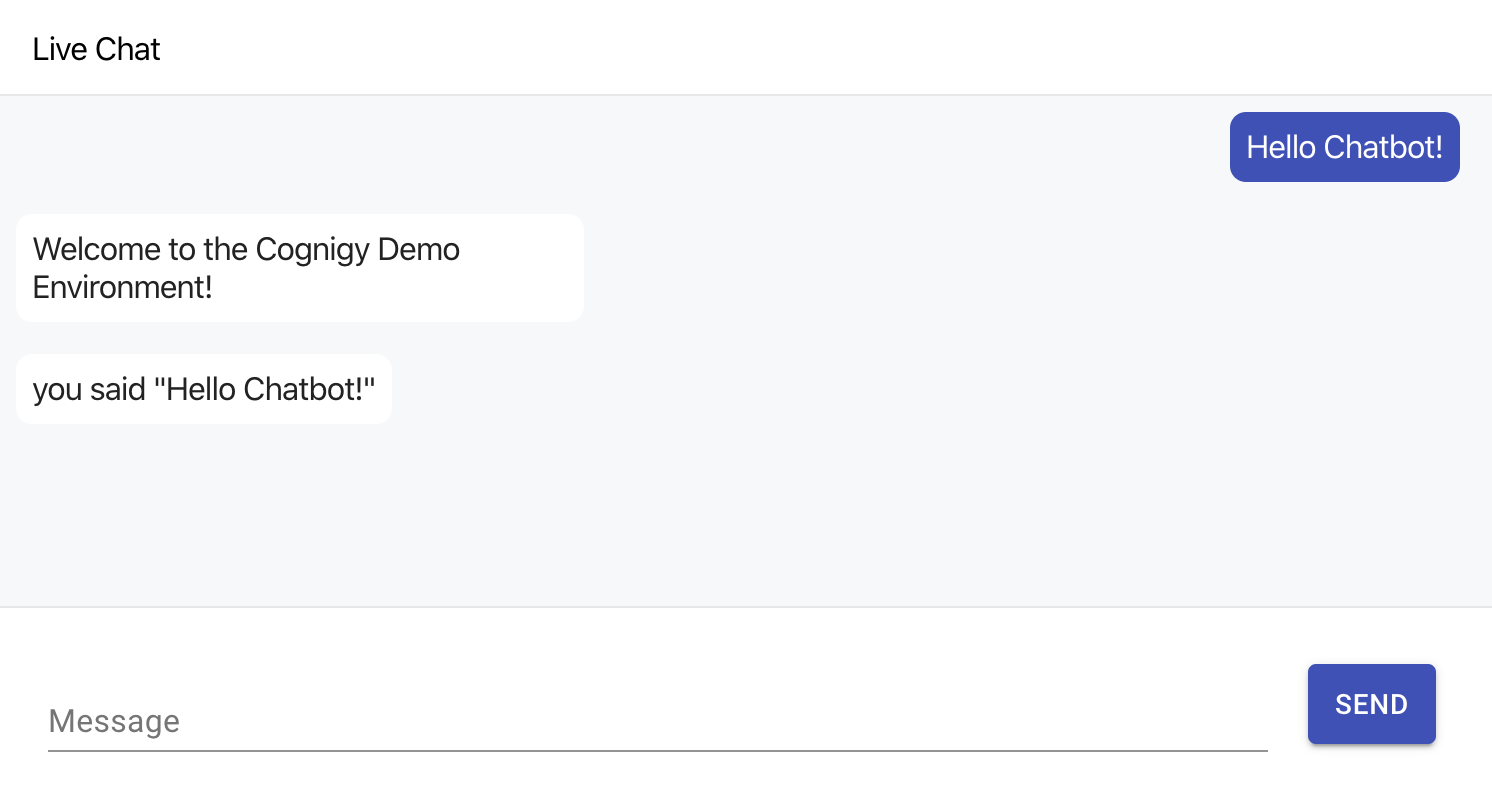
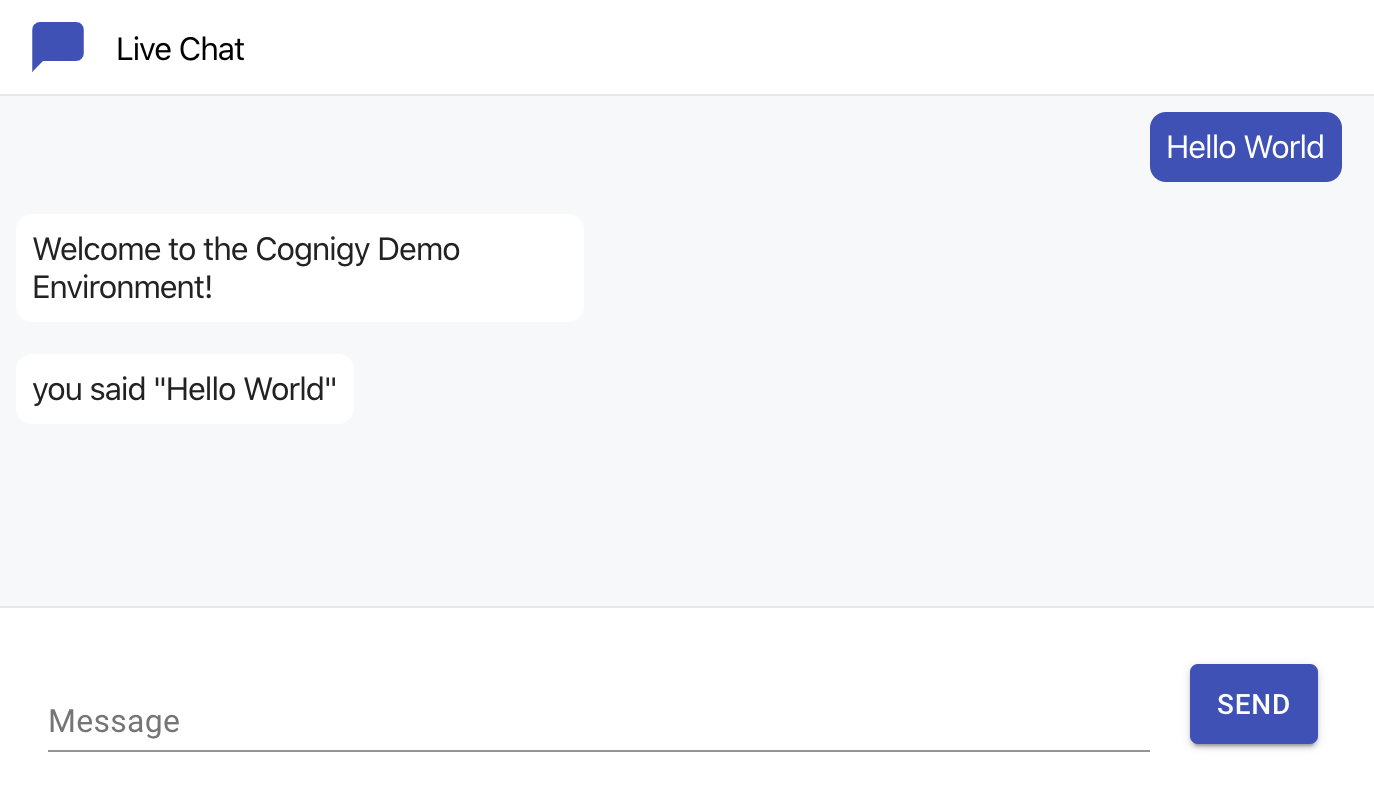
small fixes

diff --git a/src/components/NavBar.tsx b/src/components/NavBar.tsx
@@ -16,7 +16,7 @@ const Header = styled.div`
 const NavBar: React.FC = (): ReactElement => {
   return (
     <Header>
-      <img src="./logo.svg" width="26"></img>
+      <img src="./logo.svg" width="26" alt="Logo"></img>
       <div> Live Chat</div>
     </Header>
   );

diff --git a/src/components/ChatHistory.tsx b/src/components/ChatHistory.tsx
@@ -24,6 +24,7 @@ const Empty = styled.div`
   background: rgb(246, 248, 250);
 
   > div {
+    text-align: center;
     color: rgb(132, 132, 132);
     margin-top: 16px;
     font-weight: 300;
